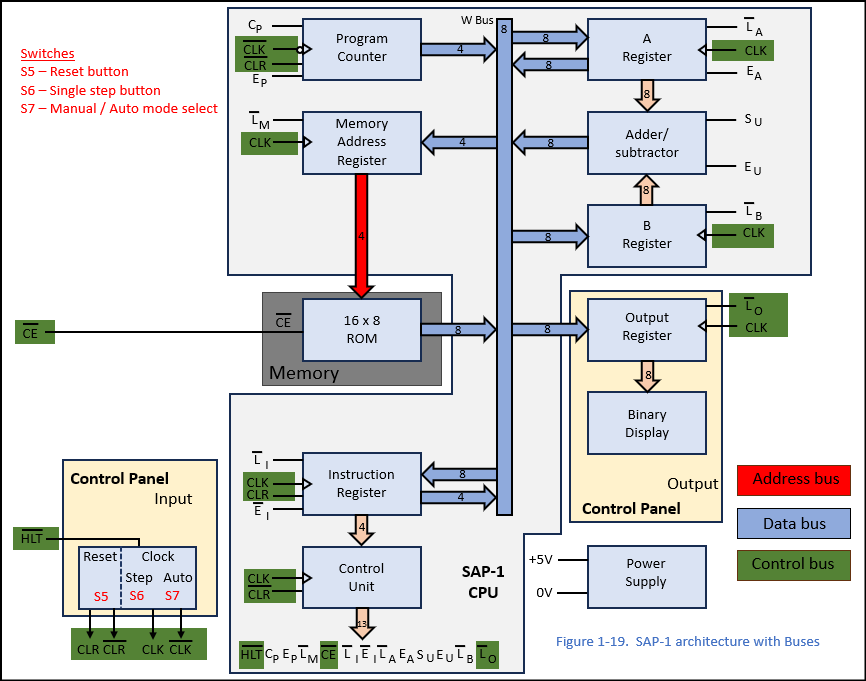
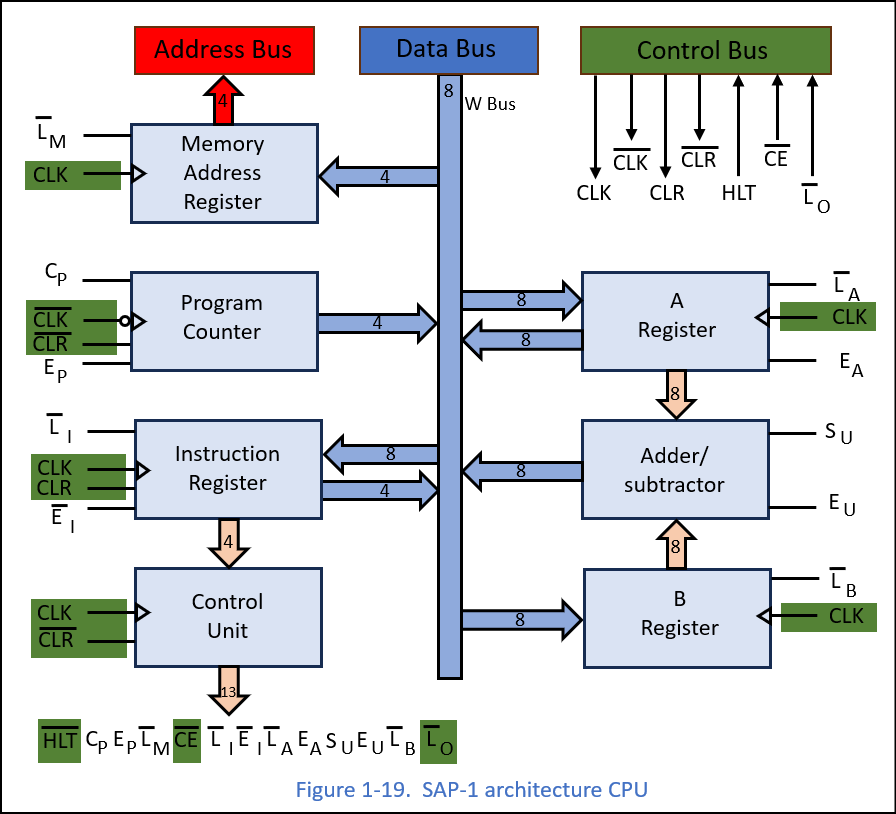
modified:   SAP-1_Computer_Analysis/Pictures1/Figure1-19.png

diff --git a/SAP-1_Computer_Analysis/README.md b/SAP-1_Computer_Analysis/README.md
@@ -206,6 +206,10 @@ Only the following functional blocks will remain, which together form the Centra
 
 ![ Figure 1-18 ](https://github.com/LincaMarius/ISAP-1_Computer_Proiect/blob/main/SAP-1_Computer_Analysis/Pictures1/Figure1-18.png)
 
+I propose a rearrangement of these blocks to facilitate easier connection to the buses. I have swapped the positions of the Program Counter and the Memory Address Register.
+
+![ Figure 1-19 ](https://github.com/LincaMarius/ISAP-1_Computer_Proiect/blob/main/SAP-1_Computer_Analysis/Pictures1/Figure1-19.png)
+
 
 ### SAP-1 Computer architecture
 The architecture of the SAP-1 computer up to this point is as follows:
